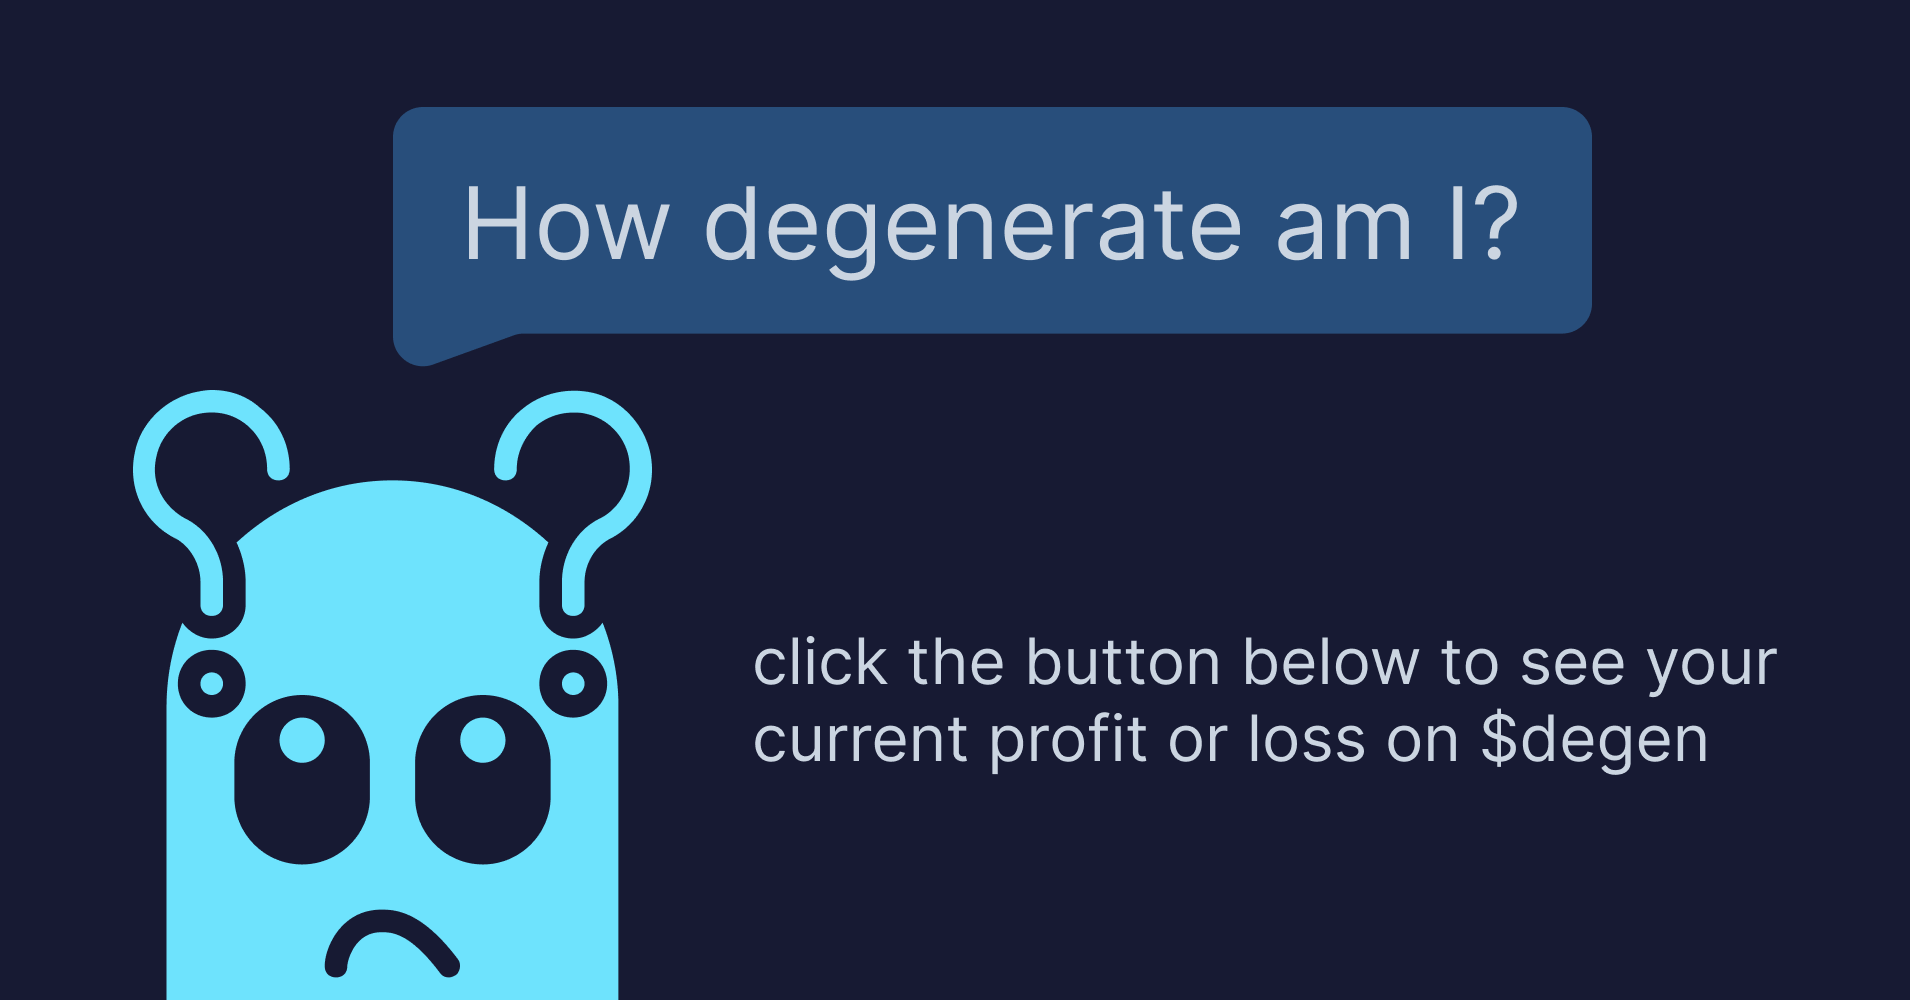
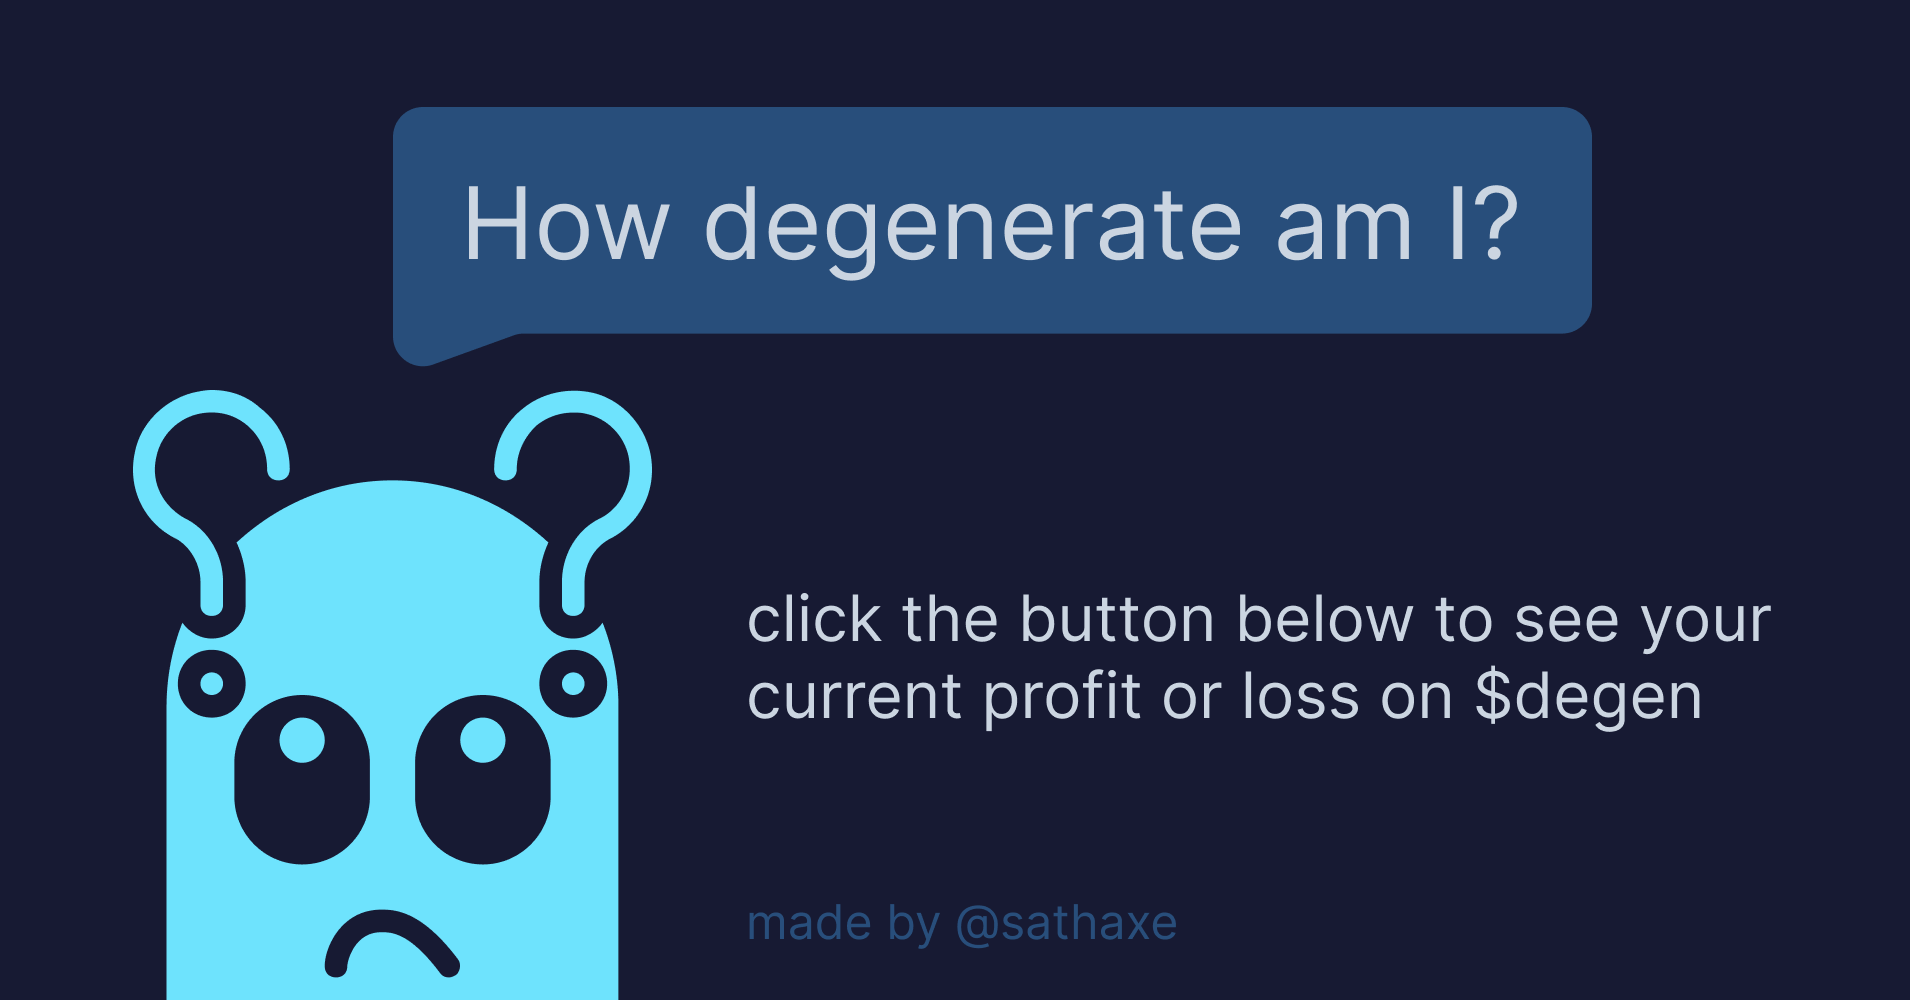
new images

Changed region(s): [[0.3707, 0.589, 0.9267, 0.775], [0.4016, 0.899, 0.6178, 0.961]]

diff --git a/src/pages/api/og/index.js b/src/pages/api/og/index.js
@@ -72,16 +72,16 @@ export async function generateImage(walletAddress) {
         <p
           style={{
             marginBottom: "20px",
-            fontSize: "48px",
+            fontSize: "84px",
             color: "#CBD5E1",
           }}
         >
           {name}
         </p>
-        <p style={{ fontSize: "96px", color: "#38BDF8" }}>
+        <p style={{ fontSize: "128px", color: "#38BDF8" }}>
           ${formattedGainLossUsd}
         </p>
-        <p style={{ fontSize: "72px", color: "#CBD5E1" }}>
+        <p style={{ fontSize: "84px", color: "#CBD5E1" }}>
           {Math.round(gainLossPercentage)}%
         </p>
       </div>
